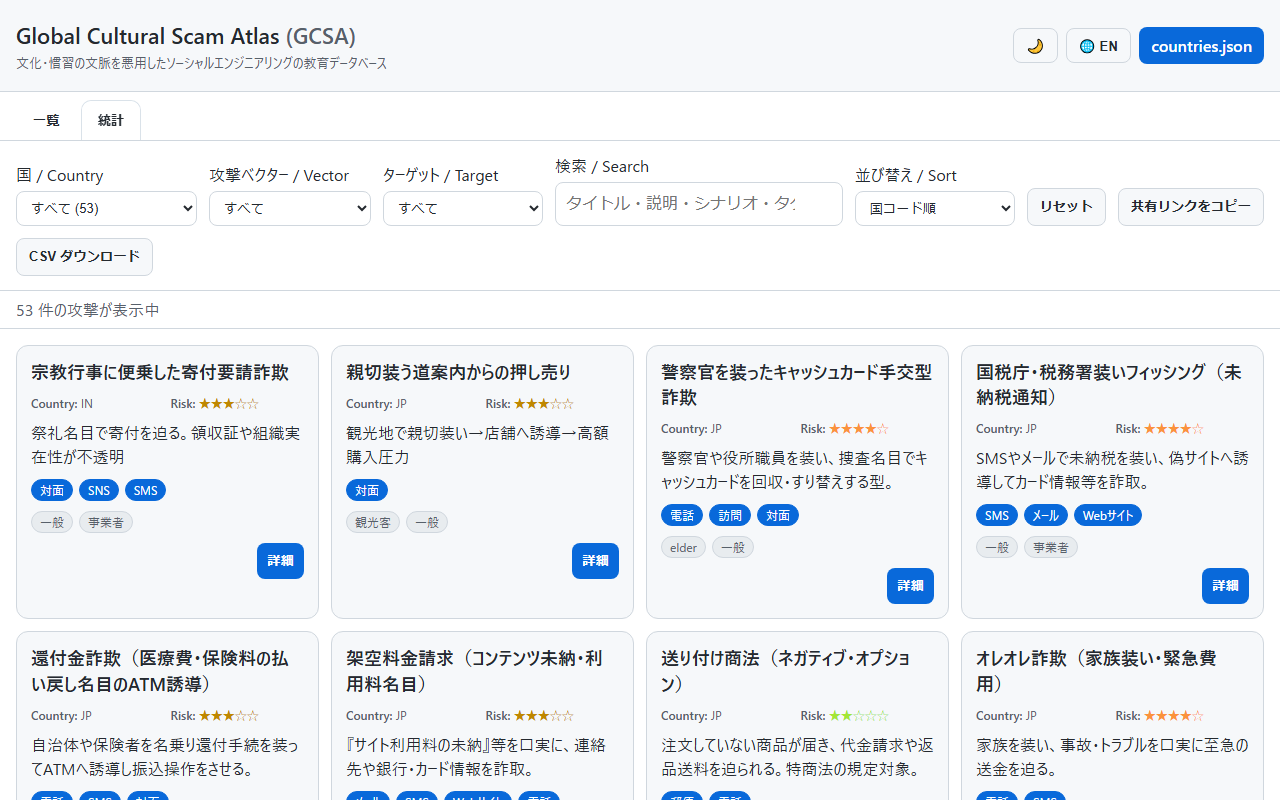
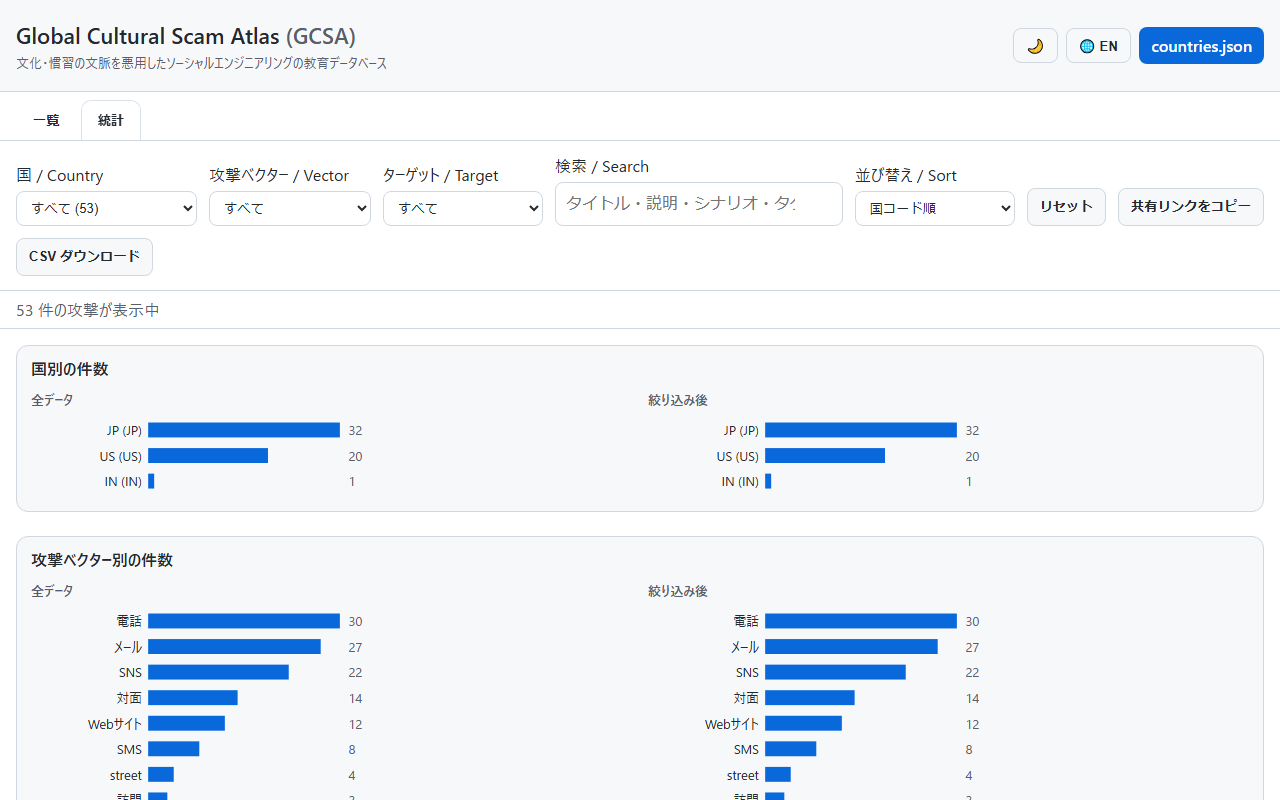
段階5補: hidden属性をdisplay指定より優先し、統計タブで一覧を隠す（screenshot4を撮り直し）

diff --git a/test/html.test.js b/test/html.test.js
@@ -85,3 +85,9 @@ test('country select has no static placeholder option (JS populates it)', async 
   assert.ok(m, 'country select not found');
   assert.ok(!/<option/i.test(m[1]), 'country <select> must be empty; JS populates options');
 });
+
+test('style.css makes the hidden attribute win over display rules (tab switching relies on it)', async () => {
+  const css = await fs.readFile('docs/style.css', 'utf-8');
+  const compact = css.replace(/\s+/g, '');
+  assert.ok(compact.includes('[hidden]{display:none!important;}'), 'style.css must declare [hidden]{display:none !important}');
+});

diff --git a/docs/style.css b/docs/style.css
@@ -284,3 +284,6 @@ dialog::backdrop{background:rgba(0,0,0,.6)}
 @media (max-width:640px){
   .stats-pair{grid-template-columns:1fr;}
 }
+
+/* hidden 属性を display 指定より優先する（.cards の grid と .stats-view の flex が勝ち、統計タブで一覧が隠れなかった） */
+[hidden]{display:none !important;}
